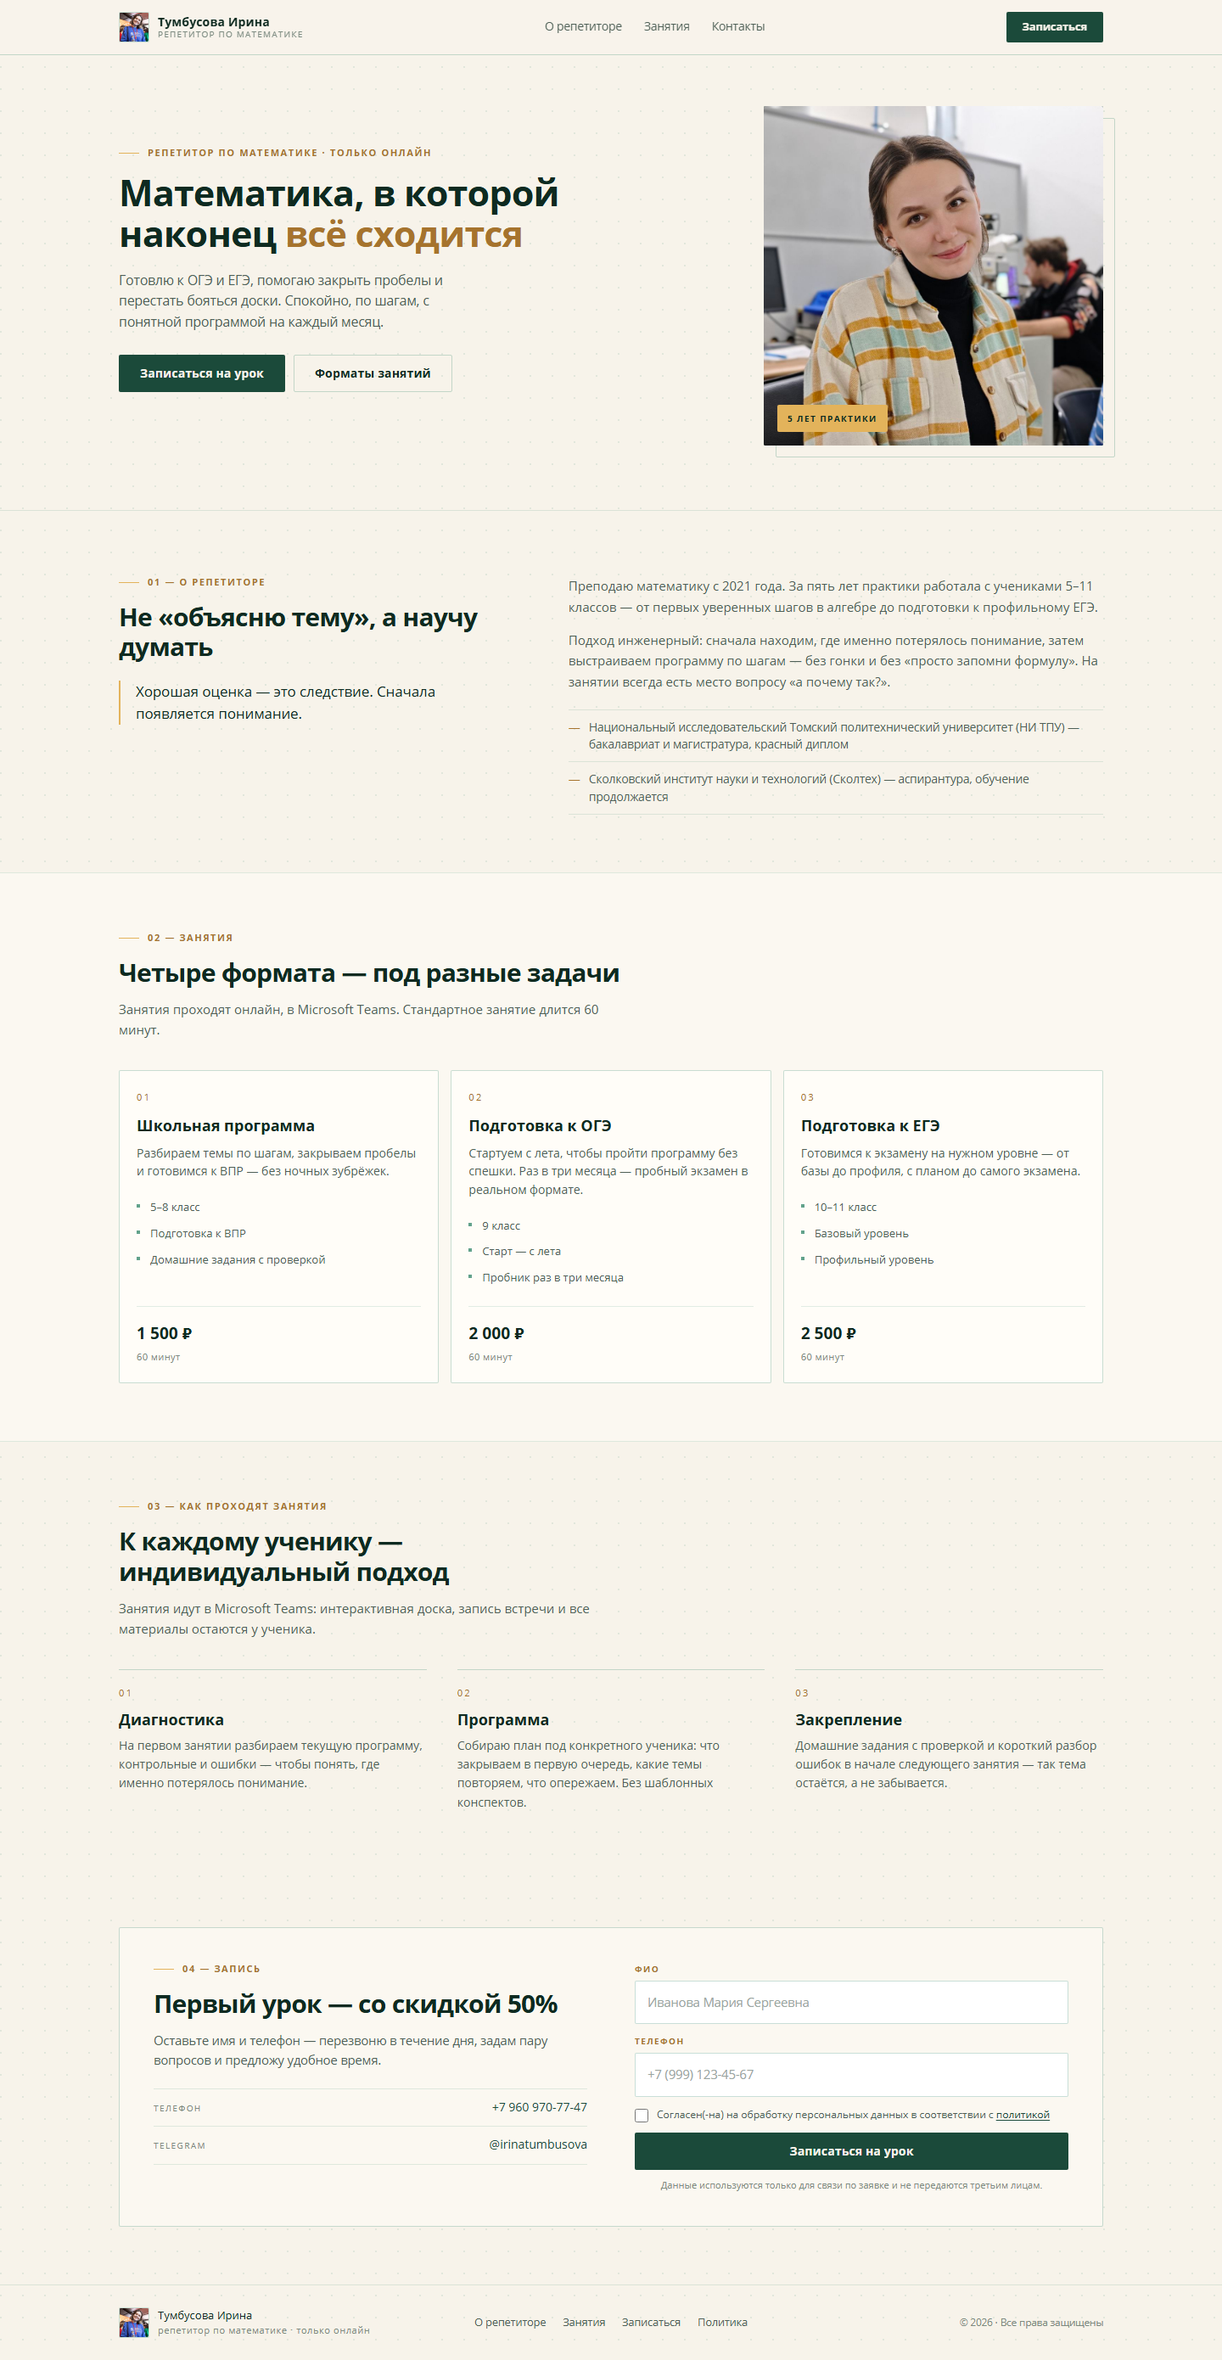
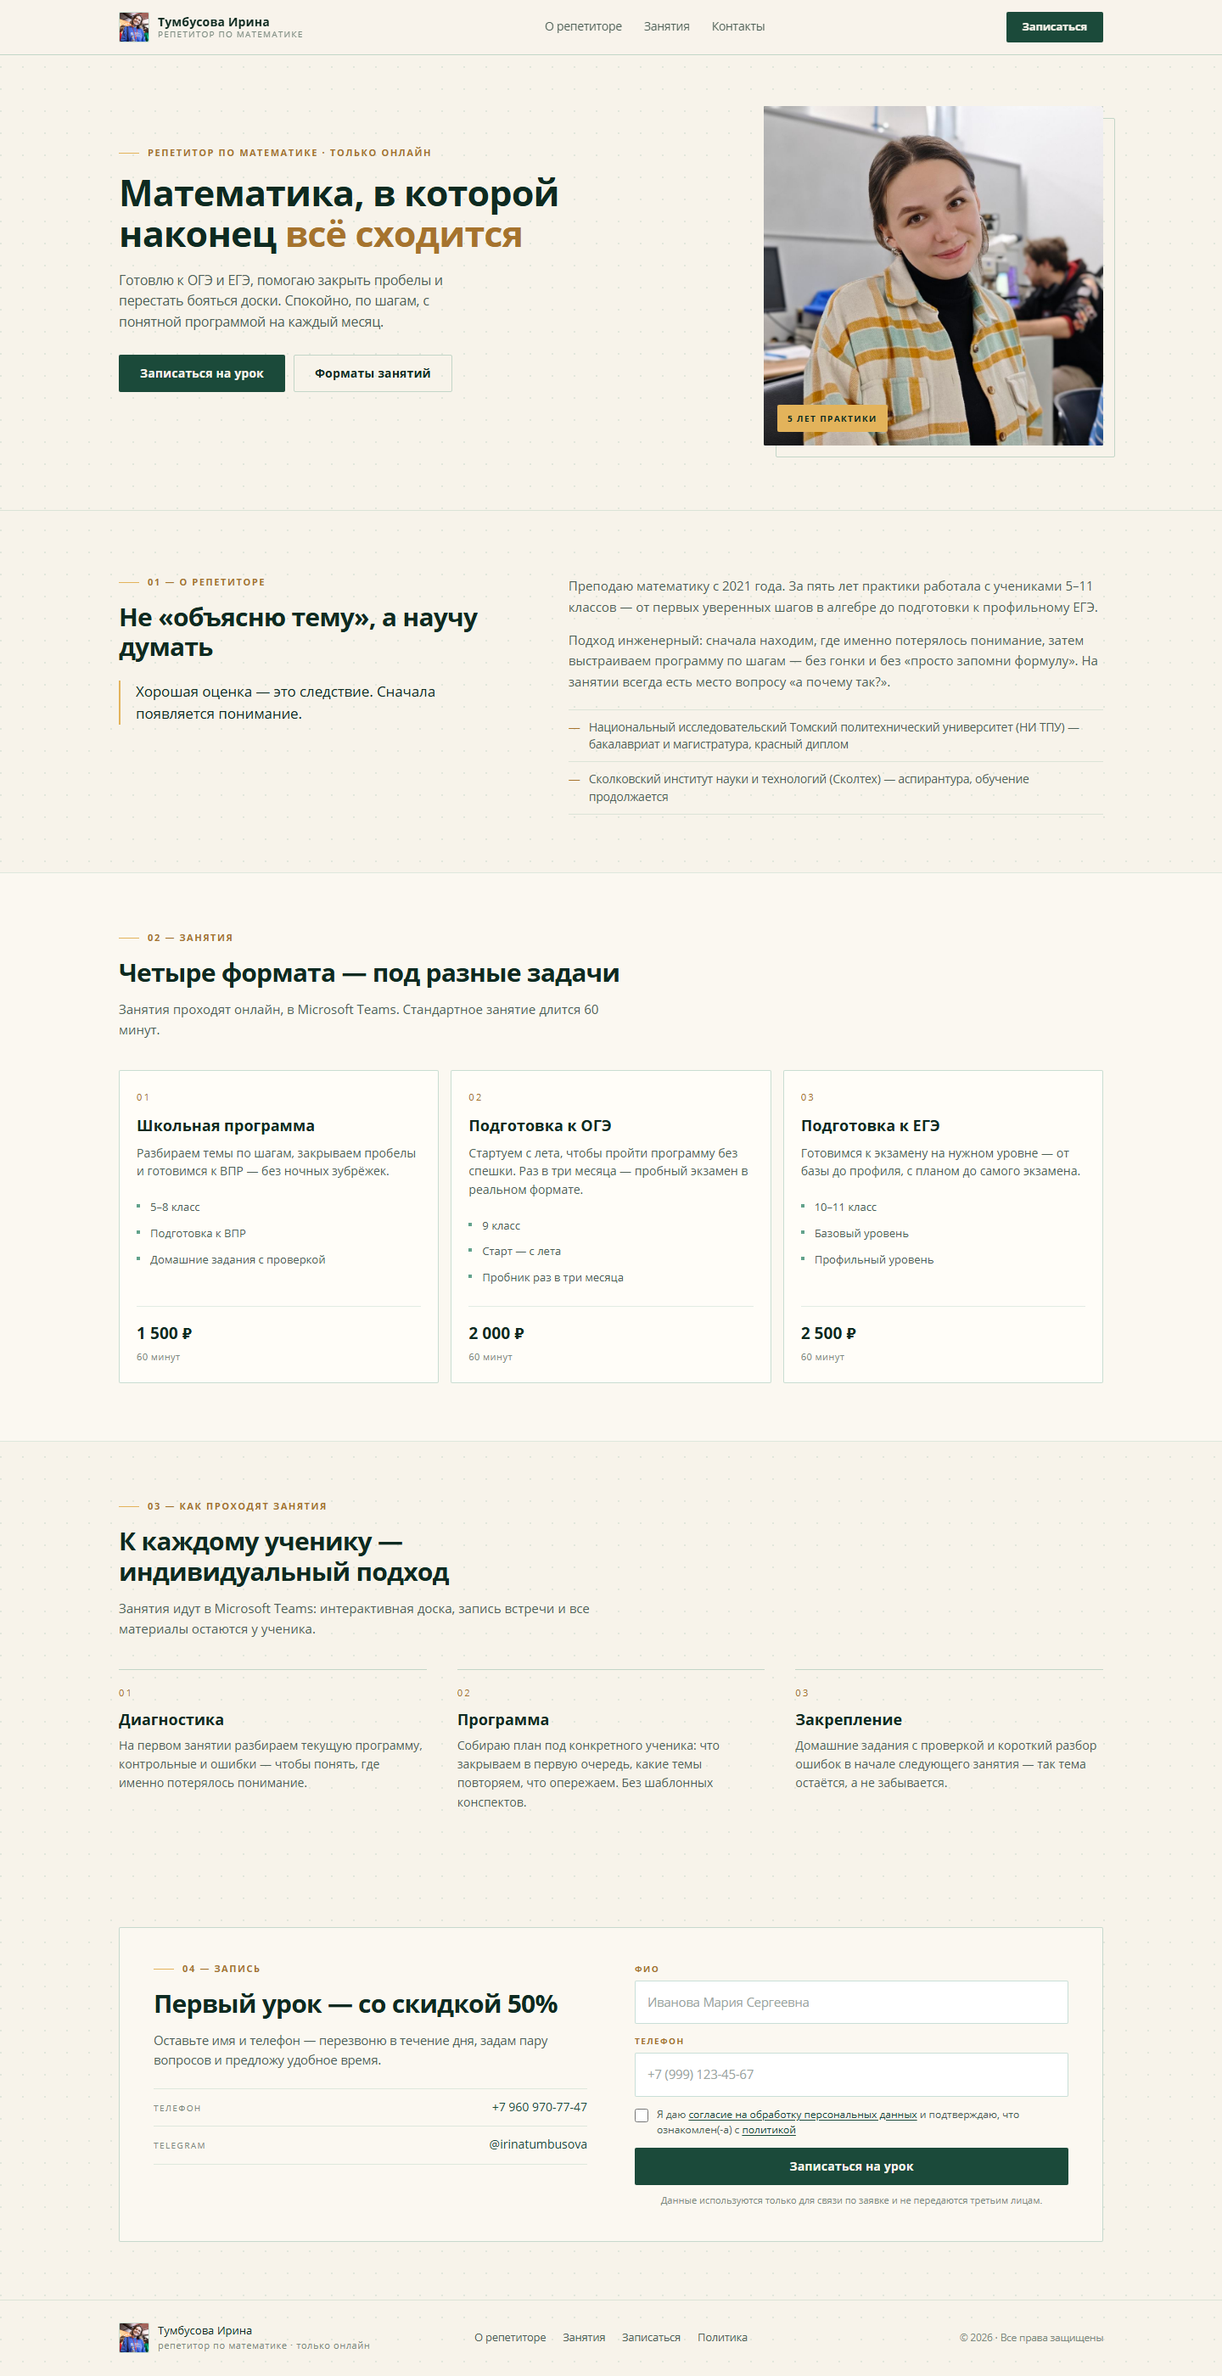
Отдельное согласие на обработку ПДн и пункт о локализации

diff --git a/consent.html b/consent.html
@@ -1,0 +1,143 @@
+<!DOCTYPE html>
+<html lang="ru">
+<head>
+  <meta charset="UTF-8">
+  <meta name="viewport" content="width=device-width, initial-scale=1">
+  <title>Согласие на обработку персональных данных — Тумбусова Ирина</title>
+  <meta name="description" content="Согласие на обработку персональных данных, которое даётся при отправке заявки на сайте.">
+  <meta name="robots" content="noindex, follow">
+  <meta name="theme-color" content="#F7F3EA">
+  <link rel="icon" type="image/jpeg" href="icon.jpg">
+  <link rel="apple-touch-icon" href="icon.jpg">
+  <link rel="stylesheet" href="fonts/fonts.css">
+  <link rel="stylesheet" href="styles.css?v=2026-11-09b">
+</head>
+<body>
+
+  <header class="site-header">
+    <div class="container header__inner">
+      <a class="brand" href="index.html">
+        <span class="brand__mark" aria-hidden="true">
+          <img src="icon.jpg" alt="" width="36" height="36">
+        </span>
+        <span class="brand__text">
+          Тумбусова Ирина
+          <small>репетитор по математике</small>
+        </span>
+      </a>
+
+      <a class="btn btn--outline btn--sm" href="index.html">На главную</a>
+    </div>
+  </header>
+
+  <main class="legal">
+    <div class="container">
+      <p class="label">Правовая информация</p>
+      <h1>Согласие на обработку персональных данных</h1>
+      <p class="legal__meta">Редакция от 9 ноября 2026 г.</p>
+
+      <p>
+        Я, субъект персональных данных, свободно, своей волей и в своём интересе
+        даю согласие Тумбусовой Ирине <span class="fill">[Отчество]</span>
+        (далее — Оператор) на обработку моих персональных данных на условиях,
+        изложенных ниже.
+      </p>
+
+      <h2>1. Перечень персональных данных</h2>
+      <p>1.1. Фамилия, имя, отчество.</p>
+      <p>1.2. Номер контактного телефона.</p>
+      <p>
+        1.3. Иные данные не собираются. Специальные категории персональных данных
+        и биометрические данные не обрабатываются.
+      </p>
+
+      <h2>2. Цели обработки</h2>
+      <p>2.1. Связь со мной по оставленной заявке.</p>
+      <p>2.2. Согласование времени, формата и условий проведения занятия.</p>
+      <p>2.3. Ответ на вопросы, заданные в заявке.</p>
+      <p>
+        2.4. Данные не используются для рекламных рассылок, продвижения товаров
+        и услуг. Согласие на получение рекламных сообщений настоящим документом
+        не даётся.
+      </p>
+
+      <h2>3. Перечень действий с персональными данными</h2>
+      <p>
+        3.1. Сбор, запись, систематизация, накопление, хранение, уточнение
+        (обновление, изменение), извлечение, использование, блокирование, удаление,
+        уничтожение персональных данных.
+      </p>
+      <p>
+        3.2. Обработка осуществляется с использованием средств автоматизации
+        и без использования таких средств.
+      </p>
+      <p>
+        3.3. Запись, систематизация и хранение персональных данных осуществляются
+        с использованием баз данных, находящихся на территории Российской Федерации
+        (ч. 5 ст. 18 Федерального закона № 152-ФЗ).
+      </p>
+
+      <h2>4. Способ выражения согласия</h2>
+      <p>
+        4.1. Согласие даётся отдельным действием — проставлением отметки
+        в соответствующем поле формы записи на сайте
+        <a href="https://kozhemyka1.github.io/test-landing/">https://kozhemyka1.github.io/test-landing/</a>
+        и нажатием кнопки отправки заявки.
+      </p>
+      <p>
+        4.2. Согласие не является частью иных документов и не может считаться
+        данным по умолчанию.
+      </p>
+
+      <h2>5. Срок действия и порядок отзыва</h2>
+      <p>
+        5.1. Согласие действует до достижения целей обработки либо до его отзыва.
+      </p>
+      <p>
+        5.2. Согласие может быть отозвано в любой момент путём направления
+        письменного обращения на адрес электронной почты
+        <span class="fill">[email]</span>.
+      </p>
+      <p>
+        5.3. При отзыве согласия персональные данные уничтожаются в течение 30 дней
+        с момента получения обращения, если иное не предусмотрено законом.
+      </p>
+
+      <h2>6. Подтверждение</h2>
+      <p>
+        6.1. Я подтверждаю, что действую от своего имени, а также что мне
+        разъяснены права, предусмотренные Федеральным законом № 152-ФЗ
+        «О персональных данных».
+      </p>
+      <p>
+        6.2. Я ознакомлен(-а) с
+        <a href="privacy.html">политикой в отношении обработки персональных данных</a>.
+      </p>
+      <p>
+        6.3. Если заявку оставляет лицо, не достигшее 18 лет, согласие должно быть
+        дано его законным представителем.
+      </p>
+    </div>
+  </main>
+
+  <footer class="footer">
+    <div class="container footer__inner">
+      <div class="footer__brand">
+        <span class="brand__mark" aria-hidden="true">
+          <img src="icon.jpg" alt="" width="36" height="36">
+        </span>
+        <p>Тумбусова Ирина<br><small>репетитор по математике · только онлайн</small></p>
+      </div>
+
+      <nav class="footer__nav" aria-label="Навигация в подвале">
+        <a href="index.html">Главная</a>
+        <a href="privacy.html">Политика</a>
+        <a href="index.html#signup">Записаться</a>
+      </nav>
+
+      <p class="footer__copy">© 2026 · Все права защищены</p>
+    </div>
+  </footer>
+
+</body>
+</html>

diff --git a/privacy.html b/privacy.html
@@ -57,6 +57,12 @@
         получить о посетителях веб-сайта
         <a href="https://kozhemyka1.github.io/test-landing/">https://kozhemyka1.github.io/test-landing/</a>.
       </p>
+      <p>
+        1.3. Согласие на обработку персональных данных даётся субъектом отдельным
+        действием — проставлением отметки в форме записи на сайте. Условия согласия
+        изложены в отдельном документе
+        <a href="consent.html">«Согласие на обработку персональных данных»</a>.
+      </p>
 
       <h2>2. Основные понятия, используемые в Политике</h2>
       <p>
@@ -360,6 +366,12 @@
         (в частности, Telegram). Направляя заявку через мессенджер, субъект
         понимает, что сервис мессенджера обрабатывает сообщения в соответствии
         со своими правилами и политикой конфиденциальности.
+      </p>
+      <p>
+        8.10. Запись, систематизация и хранение персональных данных осуществляются
+        с использованием баз данных, находящихся на территории Российской Федерации
+        (ч. 5 ст. 18 Закона о персональных данных). Мессенджеры используются как
+        канал уведомления, а не как место хранения персональных данных.
       </p>
 
       <h2>9. Перечень действий, производимых Оператором с полученными персональными данными</h2>

diff --git a/index.html b/index.html
@@ -276,8 +276,9 @@
                 <label class="consent" for="consent">
                   <input type="checkbox" id="consent" name="consent" aria-describedby="consent-error">
                   <span>
-                    Согласен(-на) на обработку персональных данных в соответствии
-                    с <a href="privacy.html" target="_blank" rel="noopener">политикой</a>
+                    Я даю <a href="consent.html" target="_blank" rel="noopener">согласие
+                    на обработку персональных данных</a> и подтверждаю, что
+                    ознакомлен(-а) с <a href="privacy.html" target="_blank" rel="noopener">политикой</a>
                   </span>
                 </label>
                 <p class="field__error" id="consent-error" role="alert"></p>

diff --git a/README.md b/README.md
@@ -13,6 +13,7 @@
 test-landing/
 ├── index.html        разметка страницы
 ├── privacy.html      политика обработки персональных данных (152-ФЗ)
+├── consent.html      согласие на обработку ПДн (отдельный документ)
 ├── styles.css        стили и адаптив
 ├── fonts/            локальные woff2: Open Sans (400, 700)
 ├── script.js         маска телефона, валидация, состояния формы
@@ -77,6 +78,18 @@ const TELEGRAM = {
 **Важно:** в публичном репозитории токен виден всем. Для открытого сайта надёжнее
 прокси (Cloudflare Worker или функция на российском хостинге), который хранит
 токен на сервере.
+
+### Хранение данных
+
+По ч. 5 ст. 18 152-ФЗ первичная запись и хранение данных россиян должны идти
+в базу на территории РФ. Целевая схема:
+
+```
+форма → сервер в РФ (пишет заявку в БД) → уведомление в Telegram
+```
+
+Поэтому в `script.js` предусмотрен `endpoint`. Пока он не задан, форма работает
+в резервном режиме: открывает чат с готовым текстом и ничего не сохраняет.
 
 ## Шрифты
 
